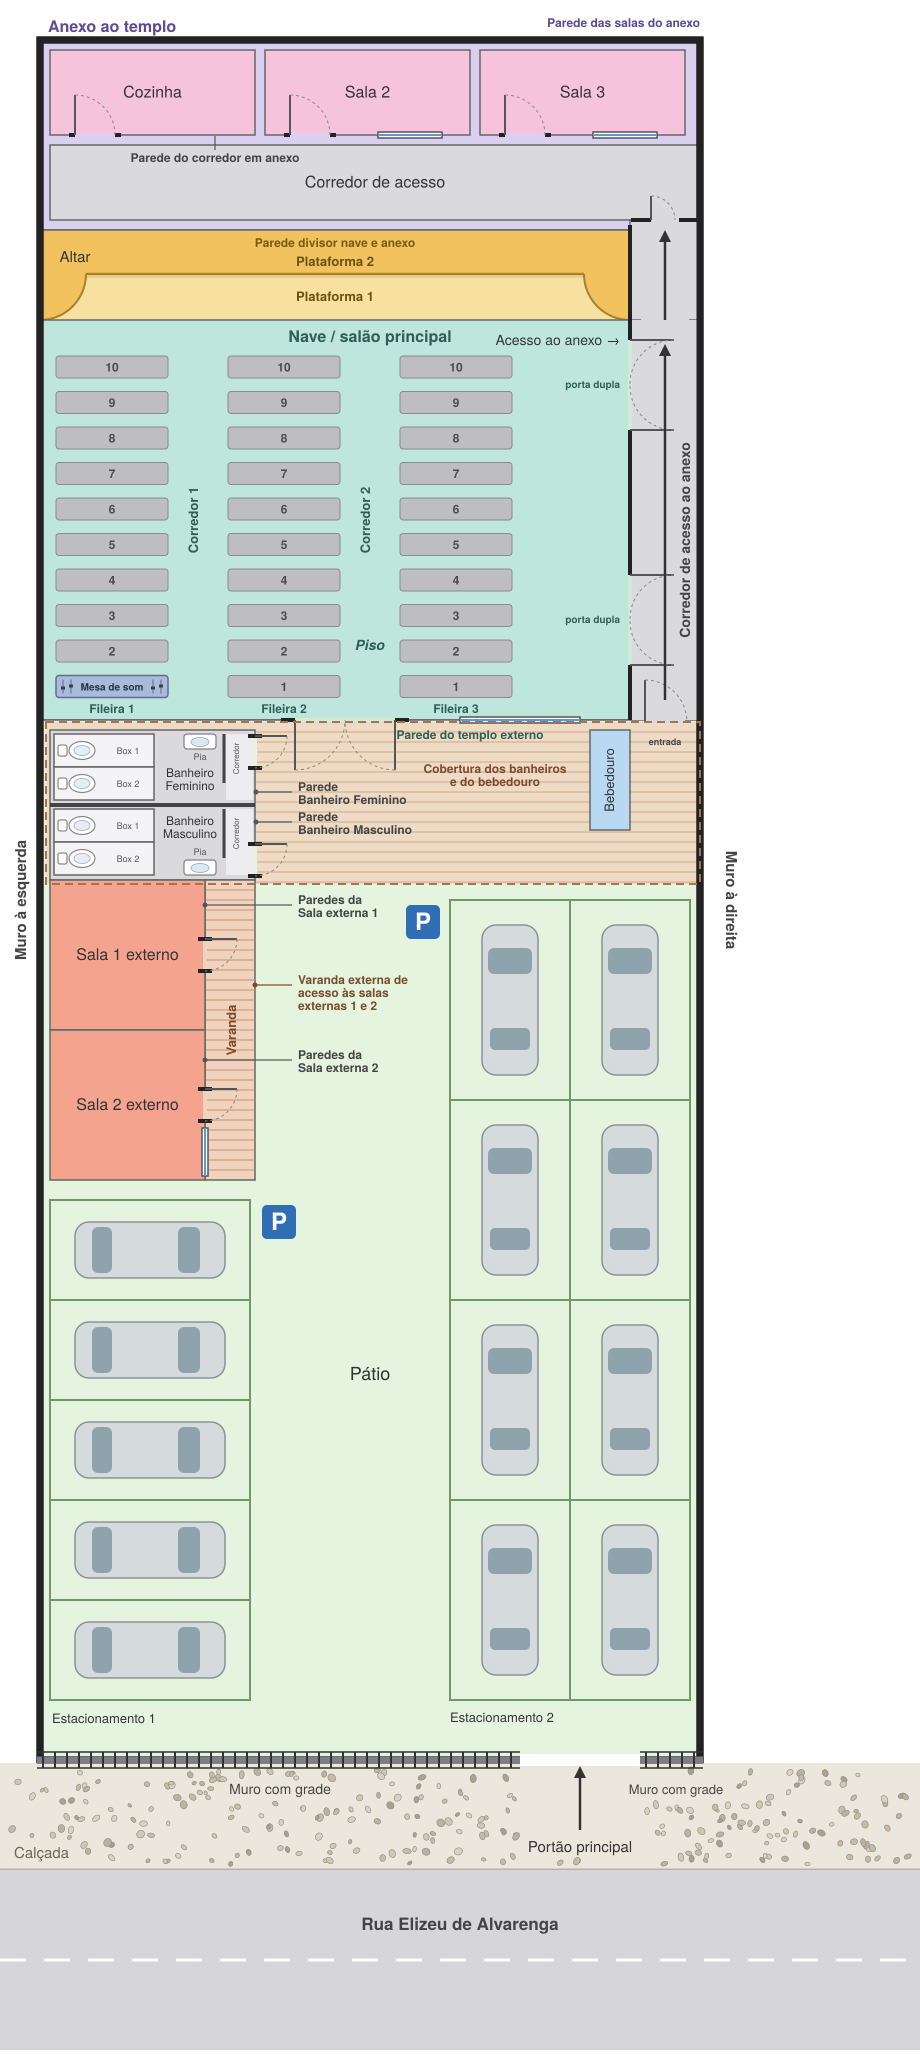
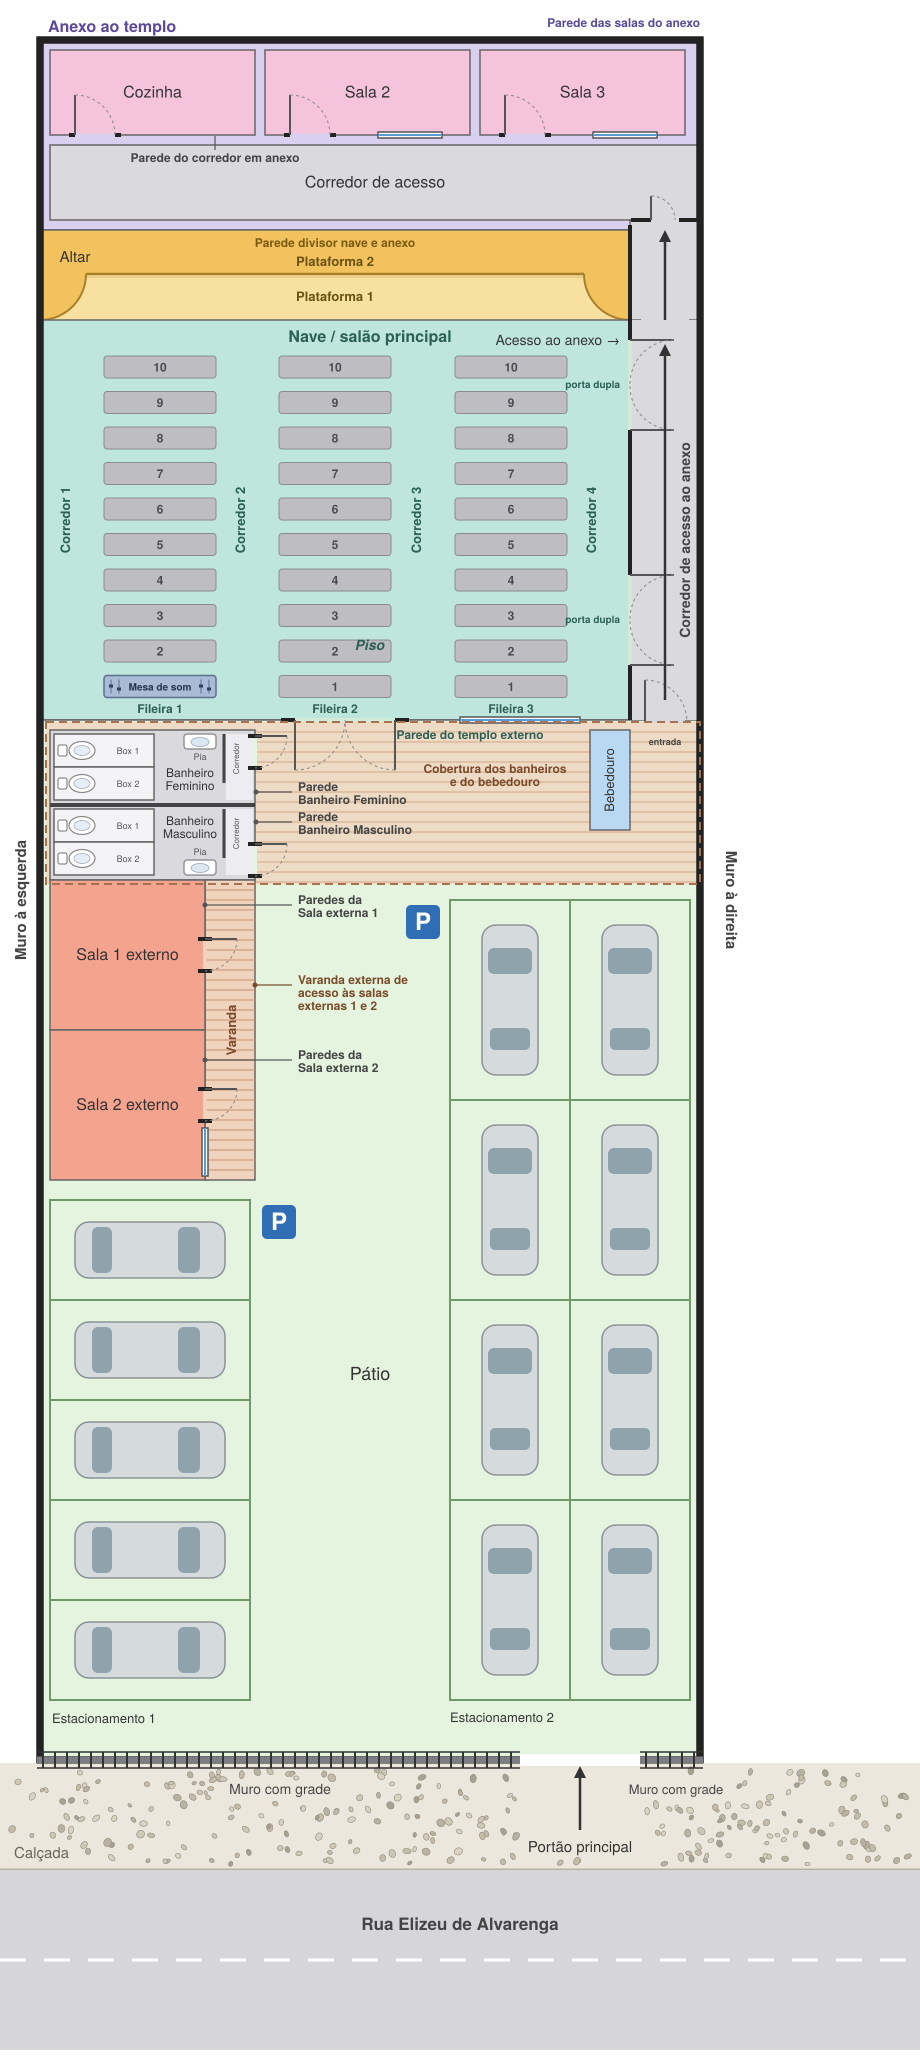
Projeto 2: corredores nas extremidades e entre as fileiras
Claude-Session: https://claude.ai/code/session_015gh4tS64wXyJ2ghbw66cFX

diff --git a/projeto2/maquete.html b/projeto2/maquete.html
@@ -520,7 +520,7 @@
   })();
 
   // ---------- Bancos: 4 fileiras x 10 (Mesa de som no lugar do Banco 1 da Fileira 1) ----------
-  var pewX = [56, 228, 400];   // PROJETO 2: Fileira 4 eliminada (dá lugar ao corredor de acesso ao anexo)
+  var pewX = [104, 279, 455];   // PROJETO 2: corredores nas extremidades e entre as fileiras (aprox. 1,3 m cada)   // PROJETO 2: Fileira 4 eliminada (dá lugar ao corredor de acesso ao anexo)
   pewX.forEach(function(x0, fi){
     for (var k = 0; k < 10; k++){
       var y0 = 356 + k * 35.5;
@@ -724,7 +724,7 @@
     }
     // nave + altar (y230..720)
     isopor(40, 230, 700, 720);
-    [135, 300, 470, 610].forEach(function(px){
+    [160, 335, 510].forEach(function(px){
       [252, 380, 470, 560, 650].forEach(function(py){ lamp(px, py, 0.9, 0.22); });
     });
     [380, 520, 650].forEach(function(py){ lamp(665, py, 0.9, 0.22); });   // PROJETO 2: corredor
@@ -771,7 +771,7 @@
   label('Altar', 160, 250, 2.6, 1.5); label('Plataforma 2', 335, 252, 2.3, 2.6); label('Plataforma 1', 335, 297, 1.6, 2.6);
   label('Bateria', 560, 255, 3.1, 1.5); label('Teclado', 110, 258, 3.0, 1.5); label('Guitarra', 262, 255, 3.0, 1.5); label('Baixo', 292, 255, 3.4, 1.3); label('Microfones', 375, 262, 3.0, 2.0);
   label('Piso da nave', 370, 560, 1.4, 2.6);
-  label('Mesa de som', 112, 687, 1.7, 2.4);
+  label('Mesa de som', 160, 687, 1.7, 2.4);
   label('Acesso ao anexo', 665, 270, 6.2, 3.2); label('Corredor de acesso ao anexo', 665, 520, 3.4, 3.4);
   label('Banheiro Feminino', 120, 767, 3.6, 3.0); label('Banheiro Masculino', 120, 842, 3.6, 3.0);
   label('Sala 1 externo', 127, 955, 3.7, 2.6); label('Sala 2 externo', 127, 1105, 3.7, 2.6);
